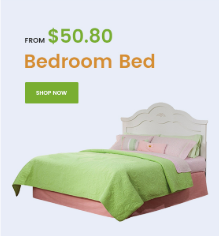
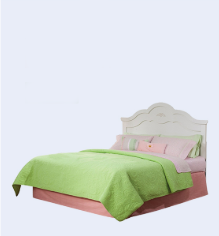
Complete gallery styling no tooltips

diff --git a/src/components/features/Gallery/Gallery.js b/src/components/features/Gallery/Gallery.js
@@ -3,45 +3,46 @@ import initialState from '../../../redux/initialState';
 
 import SectionHeader from '../../common/SectionHeader/SectionHeader';
 import GalleryProduct from '../../common/GalleryProduct/GalleryProduct';
+import Button from '../../common/Button/Button';
 
 import styles from './Gallery.module.scss';
 
-const images = [
+const slides = [
   {
     id: '1',
-    src: `${process.env.PUBLIC_URL}/images/gallery_1.png`,
+    url: `${process.env.PUBLIC_URL}/images/gallery_1.png`,
   },
   {
     id: '2',
-    src: `${process.env.PUBLIC_URL}/images/gallery_2.png`,
+    url: `${process.env.PUBLIC_URL}/images/gallery_2.png`,
   },
   {
     id: '3',
-    src: `${process.env.PUBLIC_URL}/images/gallery_3.png`,
+    url: `${process.env.PUBLIC_URL}/images/gallery_3.png`,
   },
   {
     id: '4',
-    src: `${process.env.PUBLIC_URL}/images/gallery_1.png`,
+    url: `${process.env.PUBLIC_URL}/images/gallery_1.png`,
   },
   {
     id: '5',
-    src: `${process.env.PUBLIC_URL}/images/gallery_2.png`,
+    url: `${process.env.PUBLIC_URL}/images/gallery_2.png`,
   },
   {
     id: '6',
-    src: `${process.env.PUBLIC_URL}/images/gallery_3.png`,
+    url: `${process.env.PUBLIC_URL}/images/gallery_3.png`,
   },
   {
     id: '7',
-    src: `${process.env.PUBLIC_URL}/images/gallery_1.png`,
+    url: `${process.env.PUBLIC_URL}/images/gallery_1.png`,
   },
   {
     id: '8',
-    src: `${process.env.PUBLIC_URL}/images/gallery_2.png`,
+    url: `${process.env.PUBLIC_URL}/images/gallery_2.png`,
   },
   {
     id: '9',
-    src: `${process.env.PUBLIC_URL}/images/gallery_3.png`,
+    url: `${process.env.PUBLIC_URL}/images/gallery_3.png`,
   },
 ];
 
@@ -52,39 +53,61 @@ const Gallery = () => {
         <div className='row'>
           <div className='col-6 d-flex flex-column'>
             <SectionHeader title='Furniture Gallery' />
-            <div className={styles.border}>
-              <nav className={styles.tabs}>
-                <ul>
-                  <li>
-                    <a tabIndex={1}>Featured</a>
-                  </li>
-                  <li>
-                    <a tabIndex={2}>Top seller</a>
-                  </li>
-                  <li>
-                    <a tabIndex={3}>Sale off</a>
-                  </li>
-                  <li>
-                    <a tabIndex={4}>Top rated</a>
-                  </li>
-                </ul>
-              </nav>
-              <div>
-                <GalleryProduct {...initialState.products[1]} />
-              </div>
+            <nav className={styles.tabs}>
+              <ul>
+                <li>
+                  <a tabIndex={1}>Featured</a>
+                </li>
+                <li>
+                  <a tabIndex={2}>Top seller</a>
+                </li>
+                <li>
+                  <a tabIndex={3}>Sale off</a>
+                </li>
+                <li>
+                  <a tabIndex={4}>Top rated</a>
+                </li>
+              </ul>
+            </nav>
+            <div className={styles.product}>
+              <GalleryProduct {...initialState.products[1]} />
             </div>
             <div className={styles.slider}>
-              {images.map(img => (
-                <img key={img.id} src={img.src} alt={img.id} />
-              ))}
+              <Button className={styles.button}>
+                <span>&lt;</span>
+              </Button>
+              <div className={styles.slidesList}>
+                {slides.map(slide => {
+                  return (
+                    <img
+                      className={styles.slide}
+                      key={slide.id}
+                      src={slide.url}
+                      alt={`slide ${slide.id}`}
+                    />
+                  );
+                })}
+              </div>
+              <Button className={styles.button}>
+                <span>&gt;</span>
+              </Button>
             </div>
           </div>
           <div className='col-6'>
-            <div className={styles.picture_wrapper}>
+            <div className={styles.promo}>
               <img
                 src={process.env.PUBLIC_URL + '/images/gallery_right.png'}
                 alt='bed promo'
               />
+              <div className={styles.promo__inner}>
+                <h3>
+                  from <span>$50.80</span>
+                </h3>
+                <h2>Bedroom Bed</h2>
+                <Button className={styles.promo__button} variant='main'>
+                  Shop now
+                </Button>
+              </div>
             </div>
           </div>
         </div>

diff --git a/src/components/features/Gallery/Gallery.module.scss b/src/components/features/Gallery/Gallery.module.scss
@@ -1,6 +1,14 @@
 @import "../../../styles/settings.scss";
 
+@mixin border ($sides...) {
+  @each $side in $sides {
+    border-#{$side}: 1px solid $tab-border;
+  }
+}
+
 .tabs {
+  @include border(top, left, right);
+
   ul {
     list-style: none;
     padding: 0;
@@ -13,7 +21,7 @@
     flex: 1;
 
     & + li {
-      border-left: 1px solid $tab-border;
+      @include border(left);
     }
   }
 
@@ -46,24 +54,98 @@
   }
 }
 
-.main_picture {
-  width: 100%;
+.product {
+  @include border(left, right);
+  flex: 1 0 auto;
 }
 
-.border {
-  border: 1px solid $tab-border;
-}
+/* Slider */
 
 .slider {
+  padding: 5px 0;
   display: flex;
-  overflow: hidden;
+  align-items: stretch;
+  @include border(bottom, left, right);
 
+  .slidesList {
+    display: flex;
+    flex-wrap: nowrap;
+
+    .slide {
+      @include border(top, bottom, left, right);
+      width: calc((100% - 25px) / 6);
+      height: auto;
+
+      &:nth-child(n+7) {
+        display: none;
+      }
+
+      & + .slide {
+        margin-left: 5px;
+      }
+    }
+  }
+
+  .button {
+    position: relative;
+    text-decoration: none;
+    color: $slider-text;
+    width: 30px;
+    border-radius: 2px;
+    background-color: $slider-btn;
+    margin: 0 5px;
+    @extend %hover-animation;
+    &:hover {
+      background-color: $slider-btn-hover;
+    }
+
+    span {
+      position: absolute;
+      transform: translate(-50%, -50%);
+      top: 50%;
+      left: 50%;
+    }
+  }
 }
 
-.picture_wrapper {
+/*Right column*/
+
+.promo {
+  position: relative;
   width: 100%;
   img {
     width: 100%;
   }
 }
 
+.promo__inner {
+  position: absolute;
+  top: 0;
+  left: 0;
+  margin: $base-padding * 2;
+
+  h3 {
+    text-transform: uppercase;
+    font-size: 12px;
+    font-weight: 500;
+    letter-spacing: 1px;
+
+    span {
+      font-size: 2.5em;
+      font-weight: 600;
+      color: $promo-button;
+    }
+  }
+
+  h2 {
+    color: $tab-active;
+    font-weight: 600;
+    font-size: 2.3em;
+    margin-bottom: $base-padding;
+  }
+
+  .promo__button {
+    border-radius: 2px;
+    background-color: $promo-button;
+  }
+}

diff --git a/src/styles/settings.scss b/src/styles/settings.scss
@@ -15,6 +15,7 @@ $light-5: #b6b6b6;
 $light-6: #a9a9a9;
 $light-7: #e0e3ed;
 $orange: #d58e32;
+$green: #79AE31;
 
 //*******COLOURS BY COMPONENT*******//
 //OTHER FILES USABLE!//
@@ -97,6 +98,10 @@ $sticky-icon-bcg: $light-6;
 $tab-bcg: $light-1;
 $tab-border: $light-2;
 $tab-active: $orange;
+$slider-text: $white;
+$slider-btn: $dark-3;
+$slider-btn-hover: $orange;
+$promo-button: $green;
 
 //GALLERY PRODUCT
 $label-bcg: $white;

diff --git a/src/components/common/GalleryProduct/GalleryProduct.module.scss b/src/components/common/GalleryProduct/GalleryProduct.module.scss
@@ -1,6 +1,7 @@
 @import "../../../styles/settings.scss";
 
 .root {
+  height: 100%;
   display: flex;
   justify-content: space-between;
   align-items: center;
